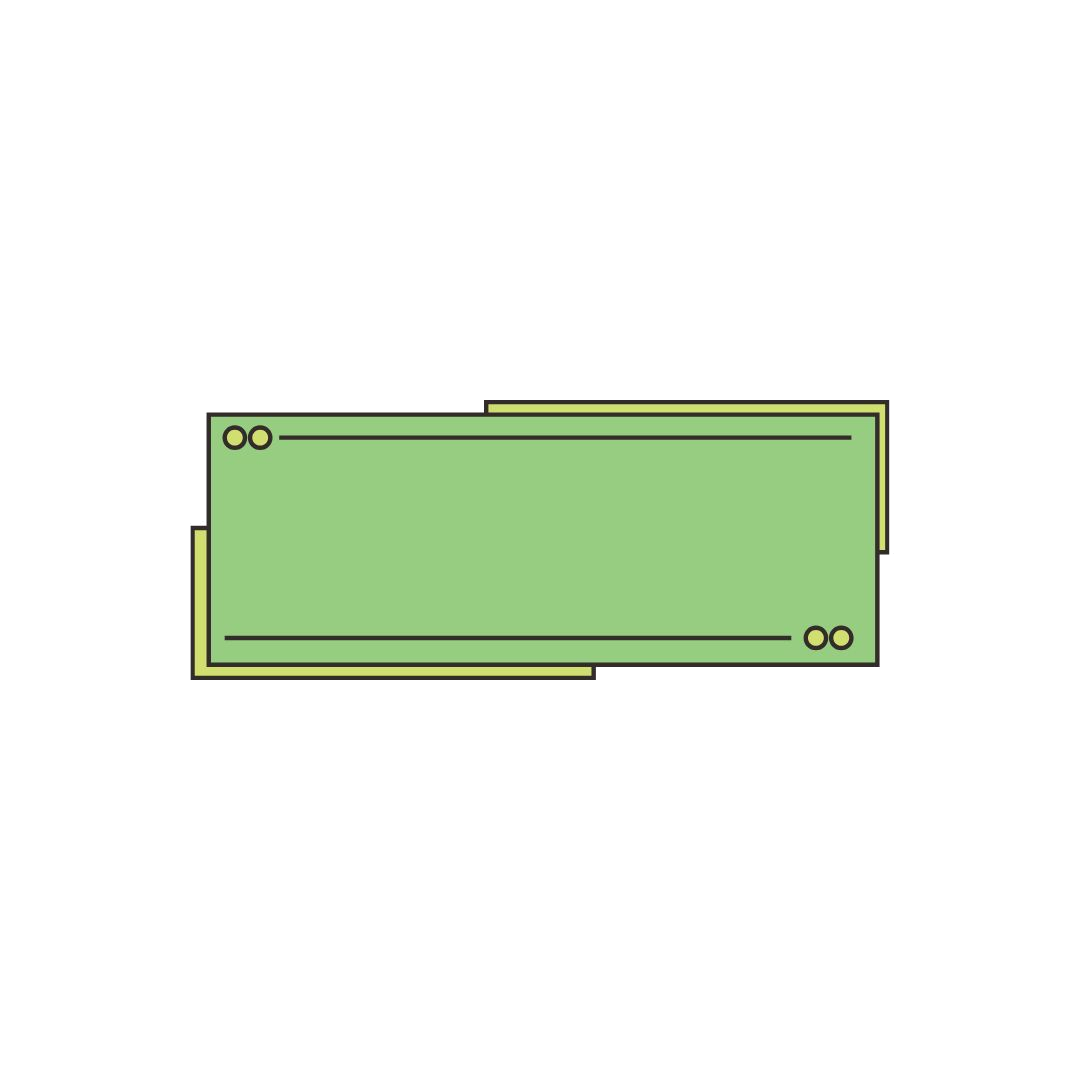
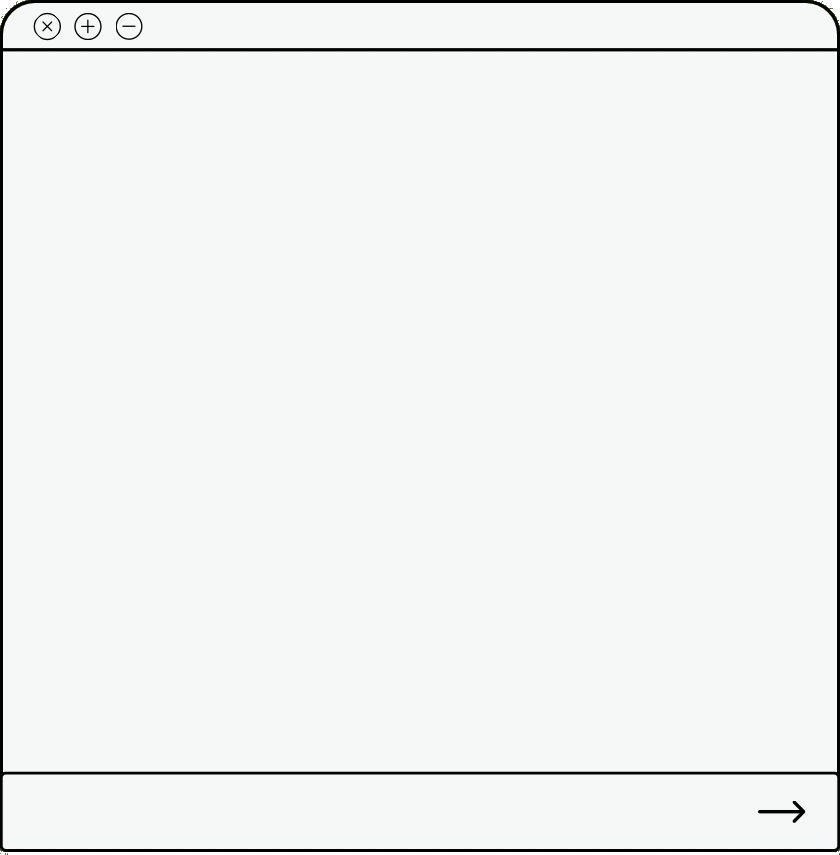
Swap popup to window-frame graphic, remove its background, size up 30%

Changed region(s): [[0.1548, 0.3649, 0.8357, 0.6386], [0.0, 0.0, 1.0, 1.0]]

diff --git a/style.css b/style.css
@@ -156,8 +156,8 @@ body {
 }
 
 .note-overlay img {
-  max-width: min(90vw, 32rem);
-  max-height: 80vh;
+  max-width: min(95vw, 41.6rem);
+  max-height: 90vh;
   filter: drop-shadow(0 20px 40px rgba(0,0,0,0.35));
   animation: noteIn 0.2s cubic-bezier(.2,.9,.3,1);
 }
